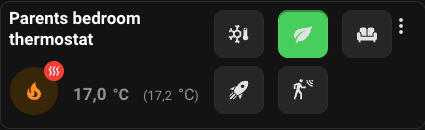
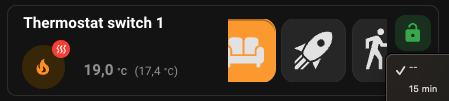
Update documentation

Changed region(s): [[0.0, 0.0297, 1.0, 1.0], [0.0, 0.0891, 0.3671, 0.3564], [0.0306, 0.9208, 0.8259, 0.9505]]

diff --git a/README.md b/README.md
@@ -6,6 +6,7 @@
 
 ![Tip](https://github.com/jmcollin78/versatile_thermostat/blob/main/images/icon.png?raw=true)
 
+- [Upgrading to v3](#upgrading-to-v3)
 - [UI Card for Versatile Thermostat](#ui-card-for-versatile-thermostat)
   - [Goals](#goals)
   - [Theme management](#theme-management)
@@ -13,9 +14,15 @@
     - [The "VTherm theme"](#the-vtherm-theme)
     - [The "VTherm Uncolored theme"](#the-vtherm-uncolored-theme)
     - [The "Gunmalmg theme"](#the-gunmalmg-theme)
-    - [Changing theme and contextual menu](#changing-theme-and-contextual-menu)
+      - [Preset display](#preset-display)
+      - [Lock and timed preset controls](#lock-and-timed-preset-controls)
+      - [Popup](#popup)
+      - [Warning and safety display](#warning-and-safety-display)
+      - [Applicable options](#applicable-options)
 - [Installation](#installation)
   - [Options](#options)
+    - [Common options (all themes)](#common-options-all-themes)
+    - [Classical, VTherm and Uncolored themes only](#classical-vtherm-and-uncolored-themes-only)
 - [Actions](#actions)
   - [Disable the auto-fan mode](#disable-the-auto-fan-mode)
   - [By-pass the window detection](#by-pass-the-window-detection)
@@ -34,6 +41,21 @@
   - [Translations](#translations)
   - [Support me](#support-me)
 
+
+# Upgrading to v3
+
+> **⚠ Important:** Version 3 introduces breaking changes to the card configuration. After upgrading, please review and update your card options.
+
+**What changed:**
+- The **[Gunmalmg theme](#the-gunmalmg-theme)** has been **completely redesigned** with a new condensed layout, preset scrollable row, lock/timed preset controls, a detailed popup, and warning/safety visual indicators. See the [Gunmalmg theme section](#the-gunmalmg-theme) for full details.
+- **Configuration options have been reorganized** into two sections: [Common options (all themes)](#common-options-all-themes) and [Classical, VTherm and Uncolored themes only](#classical-vtherm-and-uncolored-themes-only). Some options that were previously available are no longer applicable to the Gunmalmg theme.
+- **Obsolete options removed:** `disable_circle` and `disable_background_color` are no longer supported (they are now enforced by the selected theme).
+- **Unused option removed:** `eco_temperature` has been removed.
+
+**What you should do:**
+1. Open each card configuration that uses this card.
+2. Check that your options are still valid — unused or obsolete options will be silently ignored but should be cleaned up to be able to use the UI configuration window.
+3. If you use the Gunmalmg theme, review the [applicable options](#applicable-options) to see which settings are supported.
 
 # UI Card for Versatile Thermostat 
 
@@ -106,21 +128,52 @@ Juste like the _VTherm_ theme but without the colored ellipse in background.
 
 ### The "Gunmalmg theme"
 
-Inspired by the card developped by @Gunmalmg (see [here](https://github.com/jmcollin78/versatile_thermostat/issues/354#issuecomment-1961050097)), this theme is a minimal theme. The card only diplay omst common informations (name, mode, temperatures and presets).
+Inspired by the card developed by @Gunmalmg (see [here](https://github.com/jmcollin78/versatile_thermostat/issues/354#issuecomment-1961050097)), this theme is a **minimal, condensed theme** designed to be easily readable even from a distance.
 
 ![Versatile Thermostat UI Card Gunmalmg theme](/assets/theme-gunmalmg.png)
 
-Note: in this theme many options are not usefull because not displayed. _VTherm_ specific functions are not available.
+**Displayed information:**
+- Current temperature (`current_temperature`)
+- Target temperature (`target_temperature`)
+- HVAC mode (`hvac_mode`)
+- HVAC action (`hvac_action`)
+- Lock state (`lock_state`)
+- Selected preset (`preset_mode`)
+- Timed preset (`timed_preset`)
 
-### Changing theme and contextual menu
+**Available actions from the card:**
+1. Turn on / turn off the thermostat (hvac_mode)
+2. Change the preset (preset_mode)
+3. Toggle the lock state
+4. Activate / deactivate the timed preset
+5. Open a detailed popup by clicking on a temperature
 
-You change the thème in two ways:
-1. in the configuration menu. The theme selected in the configuration will be the default theme applyed to the card,
-2. in the contextual menu of the card. At the top right of the card, the tree dot menu allows you to change the theme.
+#### Preset display
 
-![Versatile Thermostat UI Card 3 Dots menu](/assets/three-dot-menu.png)
+Presets are displayed as buttons on a single horizontally scrollable row. The active preset is highlighted with a colored background, while other presets have a neutral (greyed) background. The scrollable area automatically scrolls to the active preset when the card is displayed.
 
-Note that the contextual menu has options that depends of the current theme and configuration options. In the *Gunmalmg* theme, you have some VTherm specific functions like, increase/decreasing temperatures, stopping the timed preset, lock management.
+#### Lock and timed preset controls
+
+The lock and timed preset controls are displayed as buttons to the right of the preset buttons.
+
+- The **lock button** is displayed at the top-right, vertically aligned with the preset buttons. When the lock is active, the button is displayed in **red**; otherwise it is displayed in **green**. The lock button can be completely hidden via the `allow_lock_toggle` option.
+- The **timed preset** controls work identically to the other themes (duration selector or manual input), but are positioned next to the preset buttons instead of below them.
+
+#### Popup
+
+Clicking on a temperature opens a **popup** that displays the same detailed information as the Classical theme. The popup reuses the Classical theme code directly (no duplication).
+
+- The popup is **centered** on the screen.
+- On mobile, it can take the full page; on desktop, it is smaller but always easily readable.
+- A **close button** is available at the top-left corner (like standard Home Assistant popups).
+
+#### Warning and safety display
+
+If a warning message is present or if the thermostat is in **safety mode**, the main temperature is displayed in **red** to draw the user's attention. Clicking on it opens the popup with the warning/safety message already visible, as if the user had clicked on the red information icon.
+
+#### Applicable options
+
+Only the following options apply to the Gunmalmg theme: `disable_name`, `disable_safety_warning`, `set_current_as_main`, `allow_lock_toggle`, `lock_relock_delay`, `disable_timed_preset`, `use_manual_duration_input`. Other display options (window, overpowering, HVAC mode buttons, power infos, etc.) are not applicable since those elements are not displayed in this theme. See the [Options](#options) section for details.
 
 # Installation
 
@@ -130,37 +183,45 @@ Then you can add the new card into your dashboard.
 
 ## Options
 
-Note: those options should be improved with official release
+### Common options (all themes)
+
 | Name                 | Type    | Default      | Description                                                                                            |
 | -------------------- | ------- | ------------ | ------------------------------------------------------------------------------------------------------ |
 | type                 | string  | **Required** | `custom:versatile-thermostat-ui-card`                                                                     |
 | entity               | string  | **Required** | The entity id of climate entity (must be a versatile_thermostat entity). Example: `climate.hvac`          |
-| name                | string/boolean  | **optional** | override the default entity name |
-| disable_name        | boolean  | **optional** | true to hide the name                                                                     |
-| disable_window       | boolean  | **optional** | turn off the window open indicator                                                                     |
-| disable_overpowering | boolean  | **optional** | turn off the overpowering indicator                                                                |
-| disable_heat        | boolean  | **optional** | turn off the on/heat button                                                                          |
-| disable_cool        | boolean  | **optional** | turn off the on/cool button                                                                          |
-| disable_heat_cool   | boolean  | **optional** | turn off the on/heat_cool button                                                                     |
-| disable_auto        | boolean  | **optional** | turn off the on/auto button                                                                          |
-| disable_dry         | boolean  | **optional** | turn off the on/dry button                                                                           |
-| disable_fan_only    | boolean  | **optional** | turn off the on/fan_only button                                                                      |
-| disable_off         | boolean  | **optional** | turn off the off button                                                                         |
-| disable_sleep_mode     | boolean  | **optional** | turn off the sleep mode button                                                                        |
-| disable_buttons     | boolean  | **optional** | turn off the plus/minus buttons                                                                        |
-| disable_safety_warning     | boolean  | **optional** | turn off the security warning (when a temperature sensor is out)                              |
-| disable_power_infos | boolean  | **optional** | turn off the power informations                                                                        |
-| disable_auto_fan_infos | boolean  | **optional** | turn off the auto-fan informations                                                                  |
-| disable_target_icon | boolean  | **optional** | hide the target icon for the setpoint temperature (which can be confusing with the room temperature) |
-| set_current_as_main | boolean | **optional** | Exchange target temperature and room temperature |
-| autoStartStopEnableEntity               | string  | **Optional** | The entity id of auto-start/stop entity (must be a switch entity). Example: `switch.clim_salon_auto_start_stop`          |
-| powerEntity               | string  | **Optional** | The entity id of sensor entity which gives the real power consumed by the VTherm. Example: `sensor.clim_salon_power`          |
+| name                | string/boolean  | **Optional** | Override the default entity name |
+| theme                | string  | **Optional** | The default theme that will be applied when the card loads |
+| disable_name        | boolean  | **Optional** | true to hide the name                                                                     |
+| disable_safety_warning     | boolean  | **Optional** | Turn off the security warning (when a temperature sensor is out)                              |
+| set_current_as_main | boolean | **Optional** | Exchange target temperature and room temperature |
 | allow_lock_toggle         | boolean | **Optional** | true to display a lock icon to lock/unlock the thermostat. If a code is configured in VTherm, a keypad will be displayed. |
 | lock_relock_delay         | number  | **Optional** | Delay in seconds after which the card will automatically re-lock after being unlocked. Set to 0 or omit to disable auto-relock. |
-| disable_presets           | boolean | **Optional** | true to hide all the preset icons and timed preset controls. |
 | disable_timed_preset      | boolean | **Optional** | true to hide the timed preset duration selector next to preset icons. |
 | use_manual_duration_input | boolean | **Optional** | true to use a manual input field instead of the preset duration selector (15min, 30min, 1h, 4h, 8h, 24h). |
-| theme | checbox | **Optional ** | The default theme that will be applied when the card loads |
+
+### Classical, VTherm and Uncolored themes only
+
+These options are **not applicable** to the Gunmalmg theme.
+
+| Name                 | Type    | Default      | Description                                                                                            |
+| -------------------- | ------- | ------------ | ------------------------------------------------------------------------------------------------------ |
+| disable_window       | boolean  | **Optional** | Turn off the window open indicator                                                                     |
+| disable_overpowering | boolean  | **Optional** | Turn off the overpowering indicator                                                                |
+| disable_heat        | boolean  | **Optional** | Turn off the on/heat button                                                                          |
+| disable_cool        | boolean  | **Optional** | Turn off the on/cool button                                                                          |
+| disable_heat_cool   | boolean  | **Optional** | Turn off the on/heat_cool button                                                                     |
+| disable_auto        | boolean  | **Optional** | Turn off the on/auto button                                                                          |
+| disable_dry         | boolean  | **Optional** | Turn off the on/dry button                                                                           |
+| disable_fan_only    | boolean  | **Optional** | Turn off the on/fan_only button                                                                      |
+| disable_off         | boolean  | **Optional** | Turn off the off button                                                                         |
+| disable_sleep_mode     | boolean  | **Optional** | Turn off the sleep mode button                                                                        |
+| disable_buttons     | boolean  | **Optional** | Turn off the plus/minus buttons                                                                        |
+| disable_power_infos | boolean  | **Optional** | Turn off the power informations                                                                        |
+| disable_auto_fan_infos | boolean  | **Optional** | Turn off the auto-fan informations                                                                  |
+| disable_target_icon | boolean  | **Optional** | Hide the target icon for the setpoint temperature (which can be confusing with the room temperature) |
+| disable_presets           | boolean | **Optional** | true to hide all the preset icons and timed preset controls. |
+| autoStartStopEnableEntity               | string  | **Optional** | The entity id of auto-start/stop entity (must be a switch entity). Example: `switch.clim_salon_auto_start_stop`          |
+| powerEntity               | string  | **Optional** | The entity id of sensor entity which gives the real power consumed by the VTherm. Example: `sensor.clim_salon_power`          |
 
 Example:
 ```
